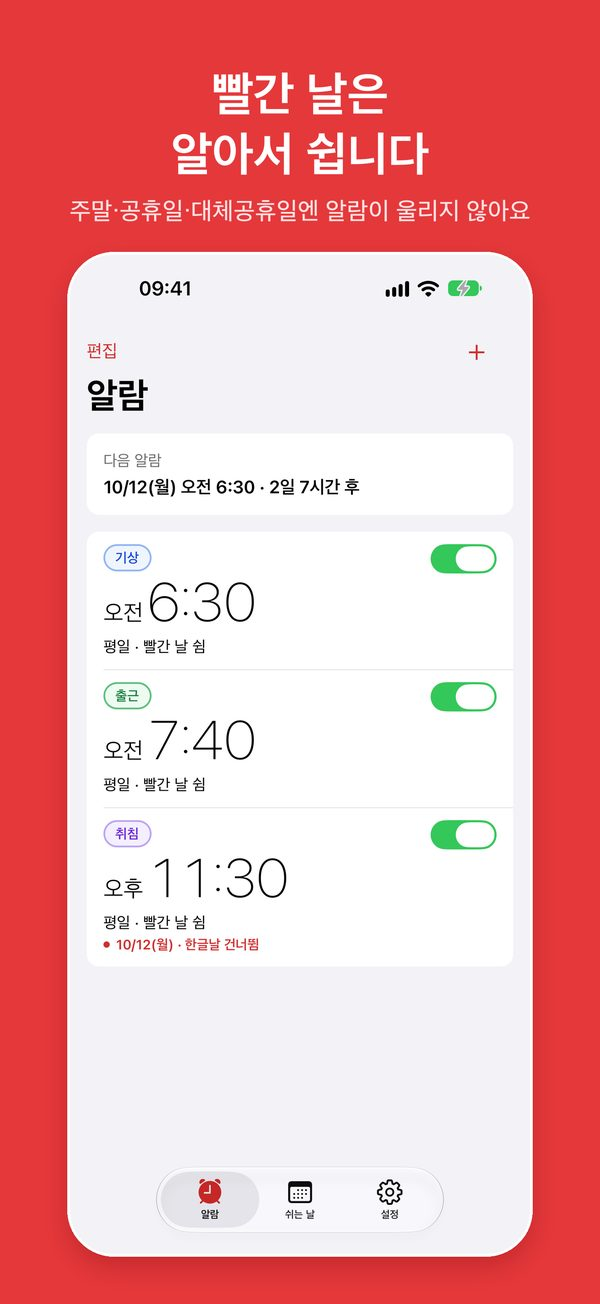
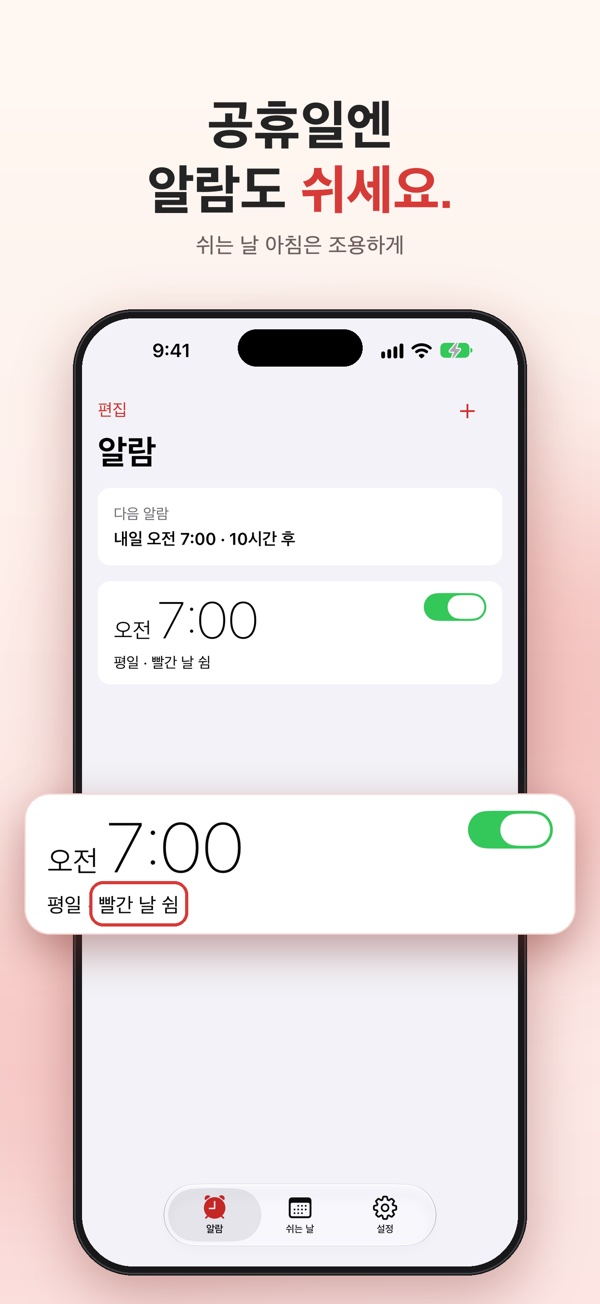
redday: 미리 보기 스크린샷을 새 스토어 세트로 교체 (2027 설날 날짜 정정)

diff --git a/redday/index.html b/redday/index.html
@@ -347,10 +347,10 @@ header.hero :focus-visible{outline-color:#fff;box-shadow:0 0 0 6px rgba(0,0,0,.6
       <div class="wrap">
         <h2 id="h-screens">미리 보기</h2>
         <ul class="as-shots" tabindex="0" aria-label="스크린샷 4장, 좌우로 넘겨 보기">
-          <li><figure><img src="/redday/img/screen-01.jpg" width="600" height="1304" loading="lazy" alt="알람 목록: 기상 오전 6:30, 출근 오전 7:40, 취침 오후 11:30이 모두 '평일 · 빨간 날 쉼'이고, 취침 알람에 '10/12(월) 한글날 건너뜀' 표시"><figcaption>공휴일엔 알아서 쉬는 알람 목록</figcaption></figure></li>
-          <li><figure><img src="/redday/img/screen-02.jpg" width="600" height="1304" loading="lazy" alt="알람 편집의 앞으로 2주 미리보기: 10/9(금) 한글날 쉼 표시"><figcaption>앞으로 2주 미리보기</figcaption></figure></li>
-          <li><figure><img src="/redday/img/screen-03.jpg" width="600" height="1304" loading="lazy" alt="쉬는 날 탭: 내 휴무일 연차 10/16(금)과 다가오는 공휴일 목록"><figcaption>연차·휴가 등록</figcaption></figure></li>
-          <li><figure><img src="/redday/img/screen-04.jpg" width="600" height="1304" loading="lazy" alt="공휴일 출근 설정: 공휴일마다 출근 여부를 켜고 끄는 목록"><figcaption>공휴일 출근 설정</figcaption></figure></li>
+          <li><figure><img src="/redday/img/screen-01.jpg" width="600" height="1304" loading="lazy" alt="공휴일엔 알람도 쉬세요: 알람 목록의 오전 7:00 평일 알람에 '빨간 날 쉼' 표시"><figcaption>공휴일엔 알아서 쉬는 알람</figcaption></figure></li>
+          <li><figure><img src="/redday/img/screen-02.jpg" width="600" height="1304" loading="lazy" alt="알람 편집의 '빨간 날에는 쉬기' 토글과 앞으로 2주 미리보기: 10/15(목) 울림, 10/16(금) 연차 쉼"><figcaption>빨간 날 쉬기와 2주 미리보기</figcaption></figure></li>
+          <li><figure><img src="/redday/img/screen-03.jpg" width="600" height="1304" loading="lazy" alt="쉬는 날 탭: 내 휴무일 연차 10/16(금) 등록과 다가오는 공휴일 목록"><figcaption>연차·휴가 등록</figcaption></figure></li>
+          <li><figure><img src="/redday/img/screen-04.jpg" width="600" height="1304" loading="lazy" alt="다가오는 공휴일: 2027년 설날 연휴 2/6(토)~2/8(월)과 대체공휴일 2/9(화)"><figcaption>대체공휴일까지 미리 확인</figcaption></figure></li>
         </ul>
       </div>
     </section>
